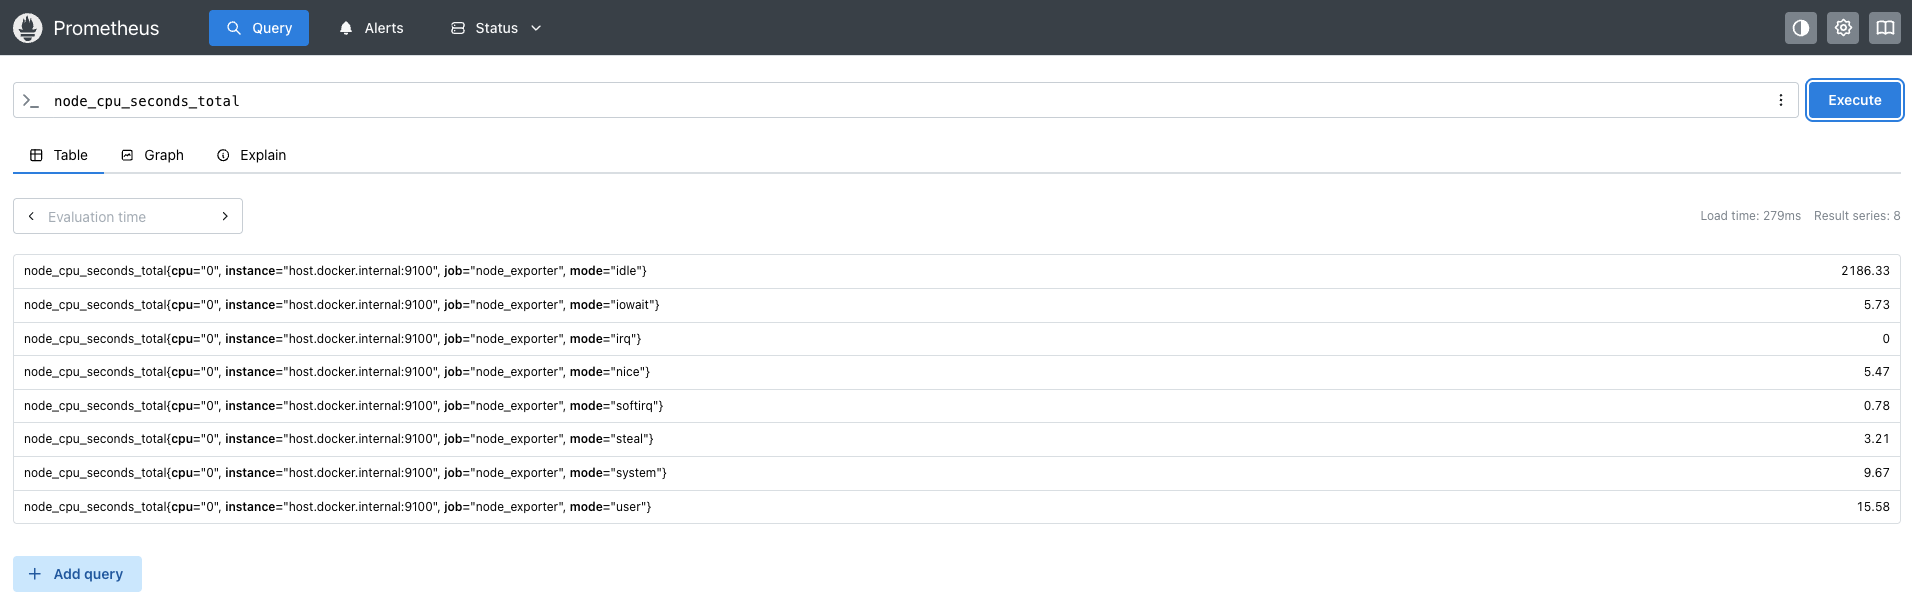
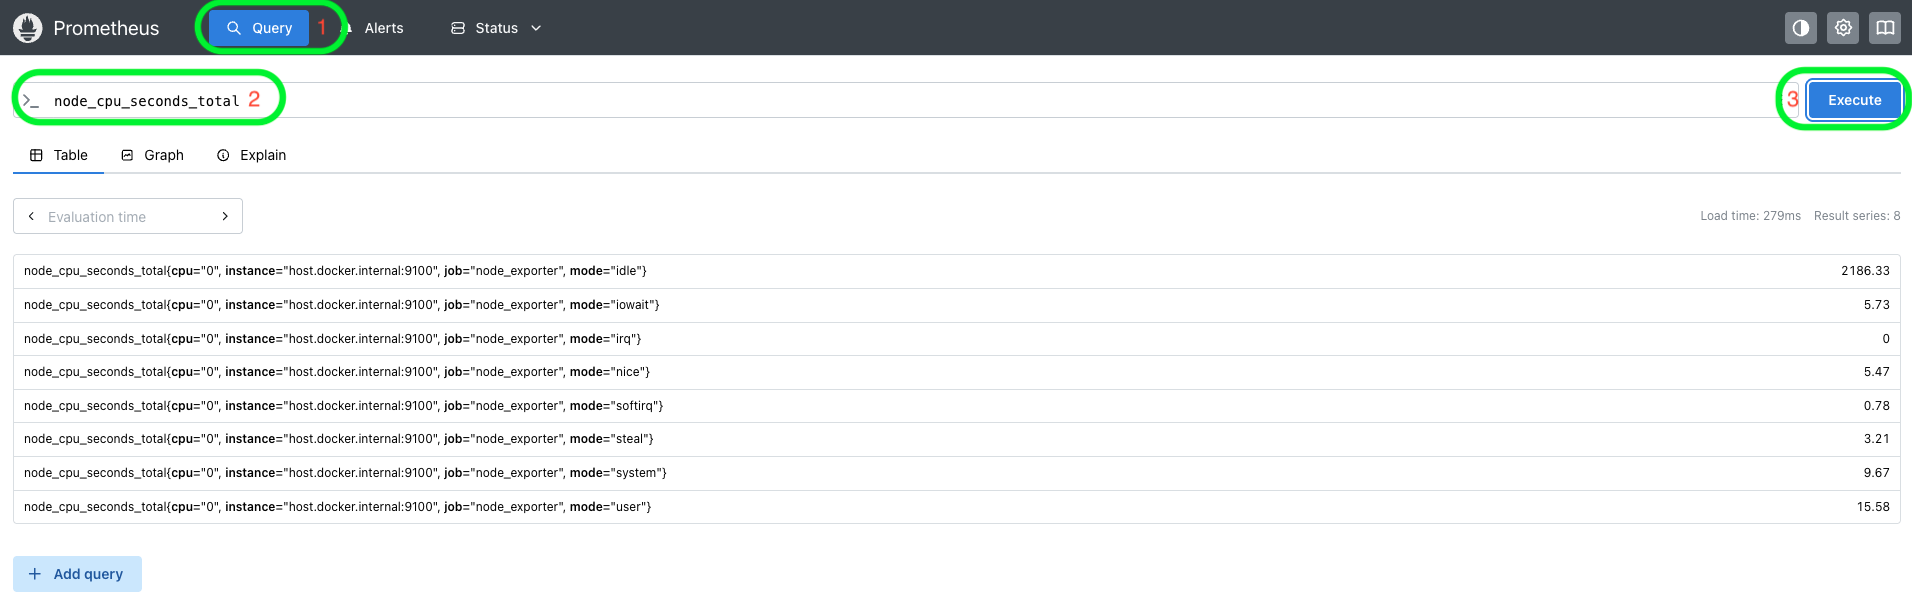
Adding last steps

Changed region(s): [[0.0, 0.0, 0.1851, 0.2166], [0.9257, 0.0928, 1.0, 0.2166]]

diff --git a/observability/grafana-basics/step4.md b/observability/grafana-basics/step4.md
@@ -1,0 +1,167 @@
+# Paso 4: Importar un dashboard de la comunidad de Grafana
+
+Hasta ahora hemos construido nuestra solución de monitorización paso a paso:
+
+- **Node Exporter** recopila y expone las métricas del servidor Ubuntu.
+- **Prometheus** recopila y almacena estas métricas.
+- **Grafana** utiliza Prometheus como data source para consultar las métricas.
+
+En este último paso utilizaremos un dashboard creado por la comunidad de Grafana para visualizar las métricas de nuestro servidor Linux.
+
+## 1. Node Exporter Full
+
+Para este escenario utilizaremos el dashboard **Node Exporter Full**, disponible en la comunidad de Grafana.
+
+Este dashboard está diseñado para visualizar las métricas recopiladas por Node Exporter y proporciona diferentes paneles para monitorizar aspectos como CPU, memoria, almacenamiento y red.
+
+Puedes consultar el dashboard en la página oficial de Grafana:
+
+[Node Exporter Full](https://grafana.com/grafana/dashboards/1860-node-exporter-full/)
+
+> **Nota:** Los dashboards de la comunidad de Grafana pueden utilizar diferentes métricas, etiquetas o configuraciones dependiendo de cómo se haya configurado Node Exporter y Prometheus. En este escenario utilizaremos la configuración estándar de Node Exporter.
+
+## 2. Importar el dashboard
+
+Desde la interfaz de Grafana, abre el menú lateral y selecciona:
+
+**Dashboards**
+
+A continuación, selecciona:
+
+**New → Import**
+
+![Grafana Dashboard 1](./assets/img/grafana-dashboard-1.png)
+
+En el campo Import **Find and import dashboard...**, introduce:
+
+```text
+1860
+```{{copy}}
+
+Haz clic en:
+
+**Load**
+
+![Grafana Dashboard 2](./assets/img/grafana-dashboard-2.png)
+
+Grafana cargará la información del dashboard y mostrará las opciones de configuración.
+
+## 3. Seleccionar el nombre y carpeta del dashboard
+
+Durante el proceso de importación, Grafana solicitará definir el **nombre** y **carpeta** que utilizará el dashboard, podemos dejar los valores por defecto.
+
+Finalmente, haz clic en:
+
+**Import**
+
+![Grafana Dashboard 3](./assets/img/grafana-dashboard-3.png)
+
+Grafana creará el dashboard y nos llevará automáticamente a la vista del dashboard.
+
+![Grafana Dashboard 4](./assets/img/grafana-dashboard-4.png)
+
+## 4. Explorar el dashboard
+
+Una vez importado, deberías poder visualizar diferentes paneles con información sobre nuestro servidor Ubuntu.
+
+Entre las métricas que podemos visualizar se encuentran:
+
+- Uso de CPU.
+- Uso de memoria.
+- Espacio disponible en disco.
+- Actividad de los discos.
+- Tráfico de red.
+- Carga del sistema.
+- Tiempo de actividad del servidor.
+
+El dashboard utiliza las métricas que Prometheus ha recopilado desde Node Exporter para generar estas visualizaciones.
+
+El flujo completo de nuestra solución ahora es:
+
+```text
+┌─────────────────┐
+│  Ubuntu Linux   │
+│                 │
+│  Node Exporter  │
+└────────┬────────┘
+         │
+         │ metrics
+         ▼
+┌─────────────────┐
+│    Prometheus   │
+│                 │
+│  Time Series DB │
+└────────┬────────┘
+         │
+         │ queries
+         ▼
+┌─────────────────┐
+│     Grafana     │
+│                 │
+│    Dashboard    │
+└─────────────────┘
+```
+
+## 5. Verificar las métricas
+
+Para comprobar que el dashboard está utilizando correctamente nuestras métricas, puedes interactuar con los diferentes paneles y observar cómo se actualizan los valores.
+
+También puedes regresar a **Explore** y consultar nuevamente métricas de Node Exporter, por ejemplo:
+
+```text
+node_cpu_seconds_total
+```{{copy}}
+
+o:
+
+```text
+node_memory_MemAvailable_bytes
+```{{copy}}
+
+Esto te permitirá relacionar las métricas que consultamos anteriormente en Explore con las visualizaciones que aparecen en el dashboard.
+
+# Resumen
+
+En este paso hemos:
+
+- Conocido el dashboard **Node Exporter Full** de la comunidad de Grafana.
+- Importado el dashboard utilizando su ID `1860`.
+- Seleccionado **Prometheus** como data source.
+- Visualizado las métricas de nuestro servidor Ubuntu mediante un dashboard preconstruido.
+
+# ¡Felicitaciones!
+
+Has completado el escenario y construido una solución básica de monitorización utilizando **Node Exporter, Prometheus y Grafana.**
+
+La solución final permite recopilar, almacenar y visualizar las métricas de un servidor Linux:
+
+```text
+Node Exporter
+      │
+      │ scrape
+      ▼
+ Prometheus
+      │
+      │ query
+      ▼
+   Grafana
+      │
+      ▼
+ Dashboard
+```
+
+A partir de esta configuración puedes continuar explorando Grafana creando tus propios dashboards, agregando nuevos paneles y utilizando consultas **PromQL** para analizar las métricas de tu servidor.
+
+# ¿Qué puedes aprender a continuación?
+
+Este escenario es solo el punto de partida. Ahora que tienes una base de [Prometheus](https://prometheus.io/) y [Grafana](https://grafana.com/oss/grafana/), puedes continuar explorando temas como:
+
+- Crear tus propios [dashboards](https://grafana.com/docs/grafana/latest/visualizations/dashboards/) y [paneles](https://grafana.com/docs/grafana/latest/visualizations/panels-visualizations/panel-overview/) en Grafana.
+- Escribir consultas más avanzadas utilizando [PromQL](https://prometheus.io/docs/prometheus/latest/querying/basics/).
+- Configurar [alertas](https://grafana.com/docs/grafana/latest/alerting/) en Grafana.
+- Monitorizar aplicaciones y servicios utilizando diferentes [exporters](https://prometheus.io/docs/instrumenting/exporters/).
+- Explorar otras [fuentes de datos](https://grafana.com/docs/grafana/latest/datasources/) compatibles con Grafana.
+- Utilizar [OpenTelemetry](https://opentelemetry.io/docs/what-is-opentelemetry/) para recopilar métricas, logs y trazas.
+- Integrar Grafana y Prometheus en entornos [Kubernetes](https://github.com/prometheus-community/helm-charts/tree/main/charts/kube-prometheus-stack).
+
+La mejor manera de aprender estas herramientas es experimentar, modificar las consultas y observar cómo cambian las visualizaciones.

diff --git a/observability/grafana-basics/step3.md b/observability/grafana-basics/step3.md
@@ -37,6 +37,8 @@ Para iniciar Grafana, ejecutaremos:
 docker-compose up -d grafana
 ```{{exec}}
 
+> **Nota:** Grafana puede tardar unos momentos en iniciar completamente después de ejecutar el comando anterior. **Espera un par de minutos antes de acceder a la interfaz web.** Si intentas acceder inmediatamente, es posible que inicialmente aparezca un error mientras el servidor termina de iniciar.
+
 Podemos comprobar que el contenedor está ejecutándose:
 
 ```bash
@@ -95,9 +97,13 @@ Haz clic en:
 
 **Add new data source**
 
+![Grafana Datasource 1](./assets/img/grafana-datasource-1.png)
+
 Selecciona:
 
 **Prometheus**
+
+![Grafana Datasource 2](./assets/img/grafana-datasource-2.png)
 
 Ahora debemos indicar a Grafana dónde puede encontrar nuestro servidor Prometheus.
 
@@ -115,6 +121,8 @@ La configuración debería quedar similar a:
 Prometheus server URL: http://prometheus:9090
 ```
 
+![Grafana Datasource 3](./assets/img/grafana-datasource-3.png)
+
 > **Importante:** Aquí no utilizamos `localhost:9090`. Desde el contenedor de Grafana, `localhost` hace referencia al propio contenedor de Grafana. Utilizamos `prometheus` porque corresponde al nombre del servicio definido en Docker Compose y Docker permite que los servicios se comuniquen utilizando sus nombres.
 
 No es necesario modificar las demás opciones para este escenario.
@@ -122,6 +130,7 @@ No es necesario modificar las demás opciones para este escenario.
 Haz clic en:
 
 **Save & test**
+![Grafana Datasource 4](./assets/img/grafana-datasource-4.png)
 
 ## 5. Verificar la conexión
 

diff --git a/observability/grafana-basics/finish.md b/observability/grafana-basics/finish.md
@@ -1,0 +1,26 @@
+## Gracias por completar el escenario
+
+Espero que este laboratorio te haya ayudado a comprender mejor cómo funcionan **Prometheus, Grafana y Node Exporter**, y cómo pueden utilizarse juntos para construir una solución de monitorización.
+
+Si encontraste útil este escenario, **compártelo con otras personas** a las que pueda resultarles interesante. Esto ayuda a que más personas puedan descubrir y aprender estas tecnologías.
+
+También puedes encontrar otros escenarios y laboratorios que he creado en Killercoda:
+
+**[Ver mis escenarios en Killercoda](https://killercoda.com/jeison-arenales)**
+
+Si te gustó este laboratorio, te invito a explorar los demás escenarios disponibles y continuar aprendiendo mediante entornos prácticos.
+
+## 🤝🏻 Conectemos
+
+Si quieres seguir aprendiendo sobre **Cloud, DevOps, observabilidad, Kubernetes y otras tecnologías**, también puedes conectar conmigo en LinkedIn:
+
+
+<a href="https://www.linkedin.com/in/jeison-arenales/"><img alt="LinkedIn" src="https://img.shields.io/badge/LinkedIn-Jeison%20Arenales-blue?style=flat-square&logo=linkedin"></a>
+
+Será un gusto conectar contigo y compartir conocimientos y experiencias.
+
+---
+
+### ¡Gracias por aprender conmigo!
+
+**Happy learning! 🚀**

diff --git a/observability/grafana-basics/step2.md b/observability/grafana-basics/step2.md
@@ -50,8 +50,7 @@ cd ~/grafana-basics
 Podemos comprobar que los archivos están disponibles:
 
 ```bash
-ls -la && \
-ls -la prometheus
+tree
 ```{{exec}}
 
 Deberías encontrar:
@@ -63,7 +62,7 @@ docker-compose.yml
 y:
 
 ```text
-prometheus.yml
+prometheus/prometheus.yml
 ```
 
 ### Revisar la configuración de Prometheus
